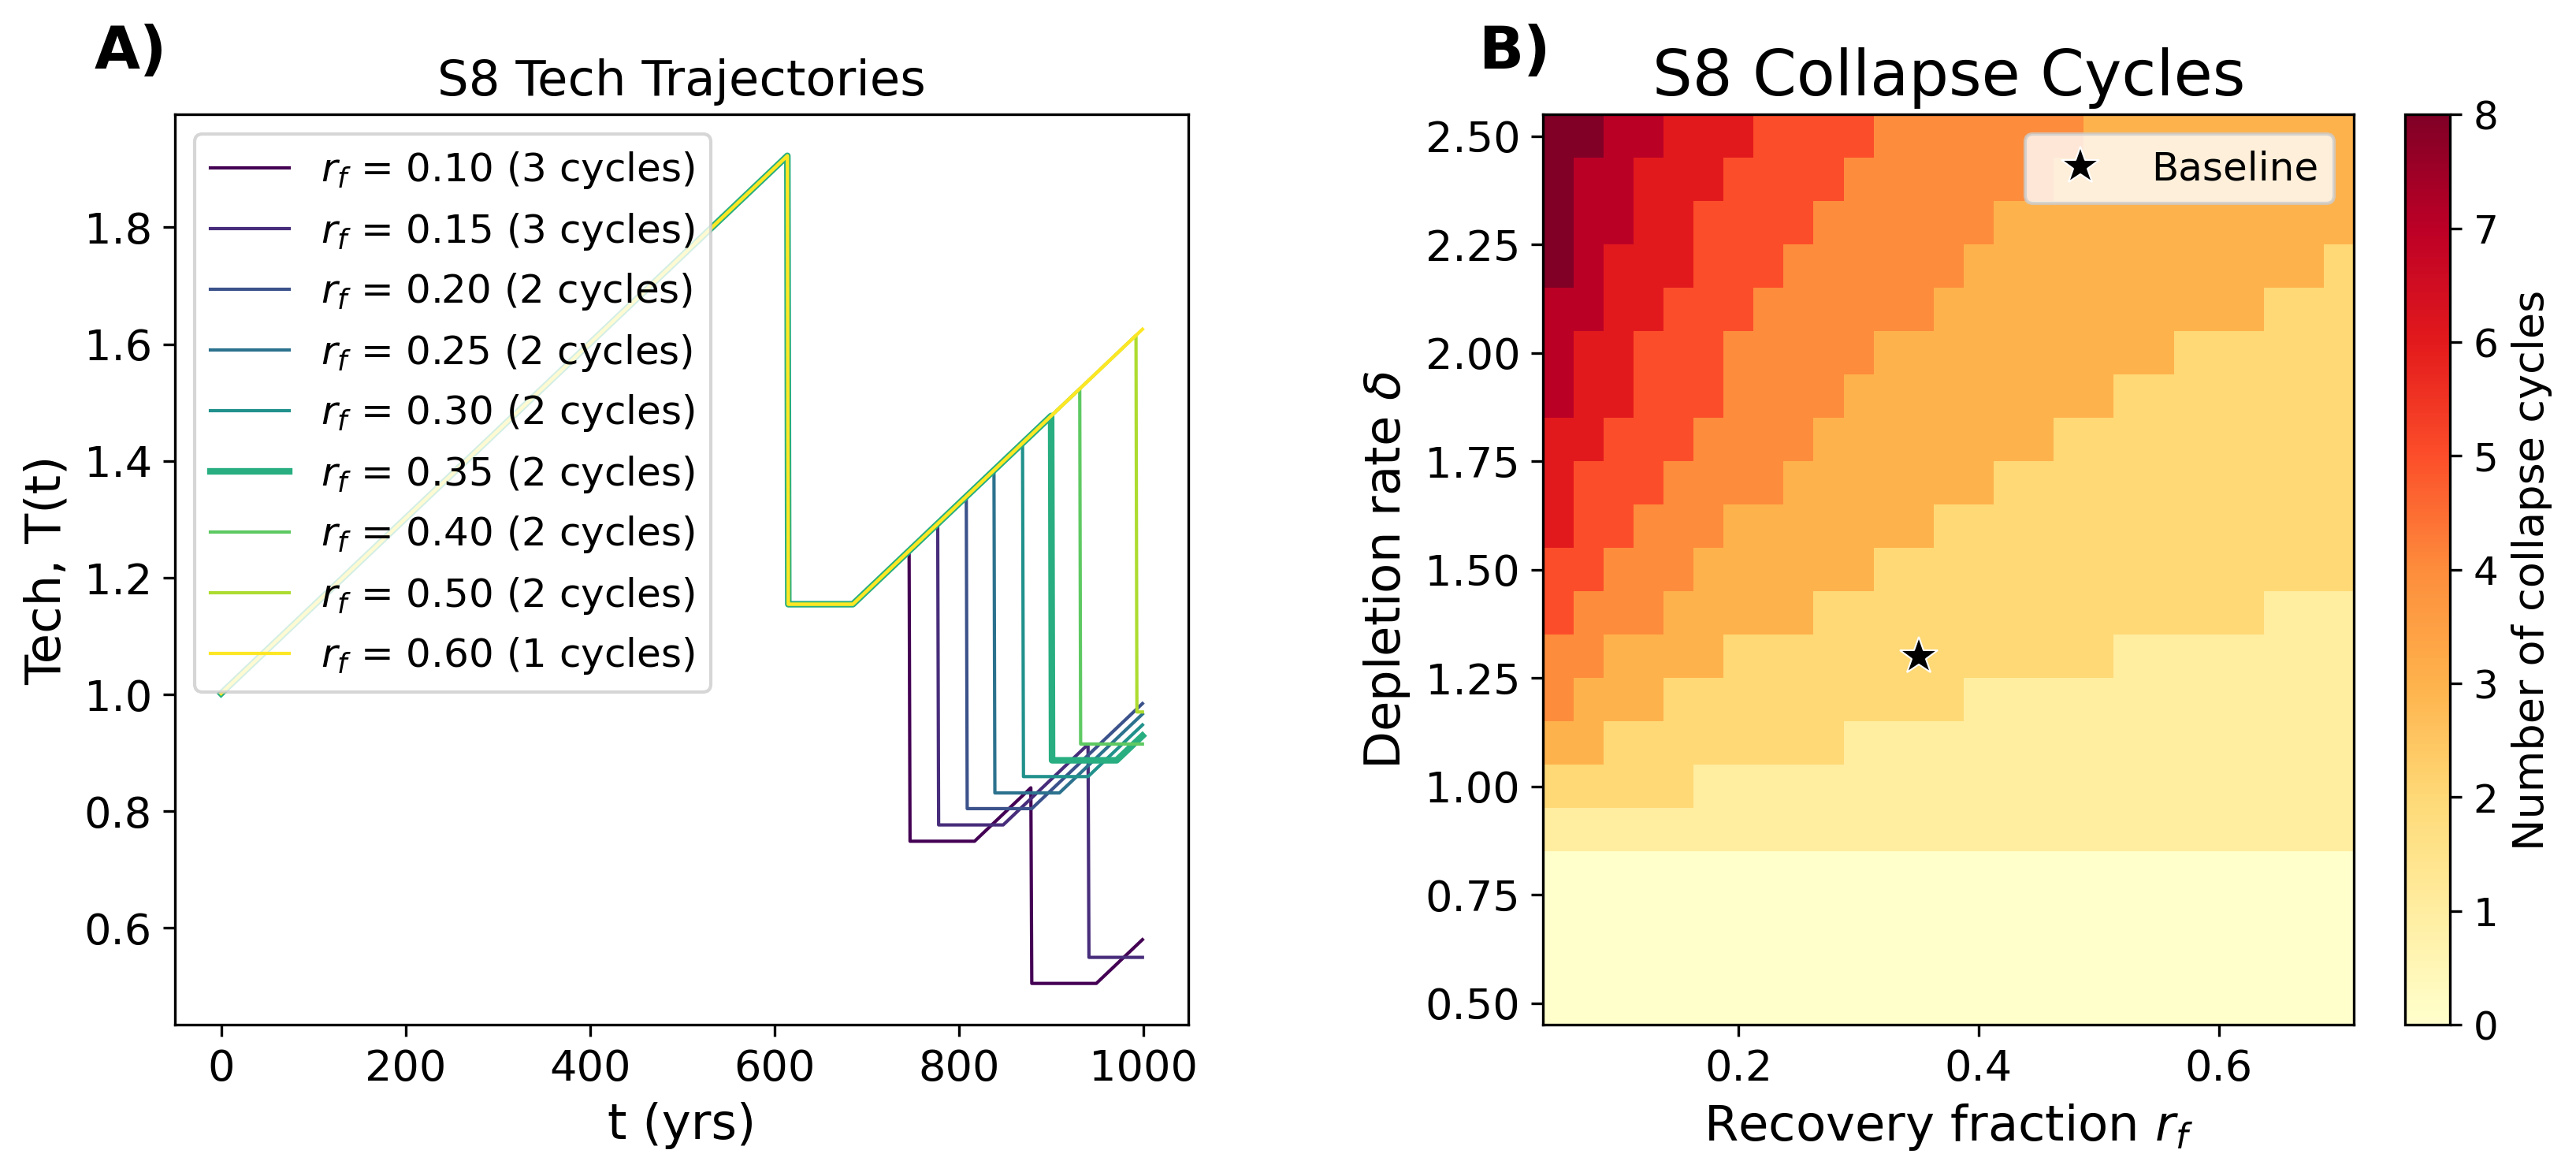
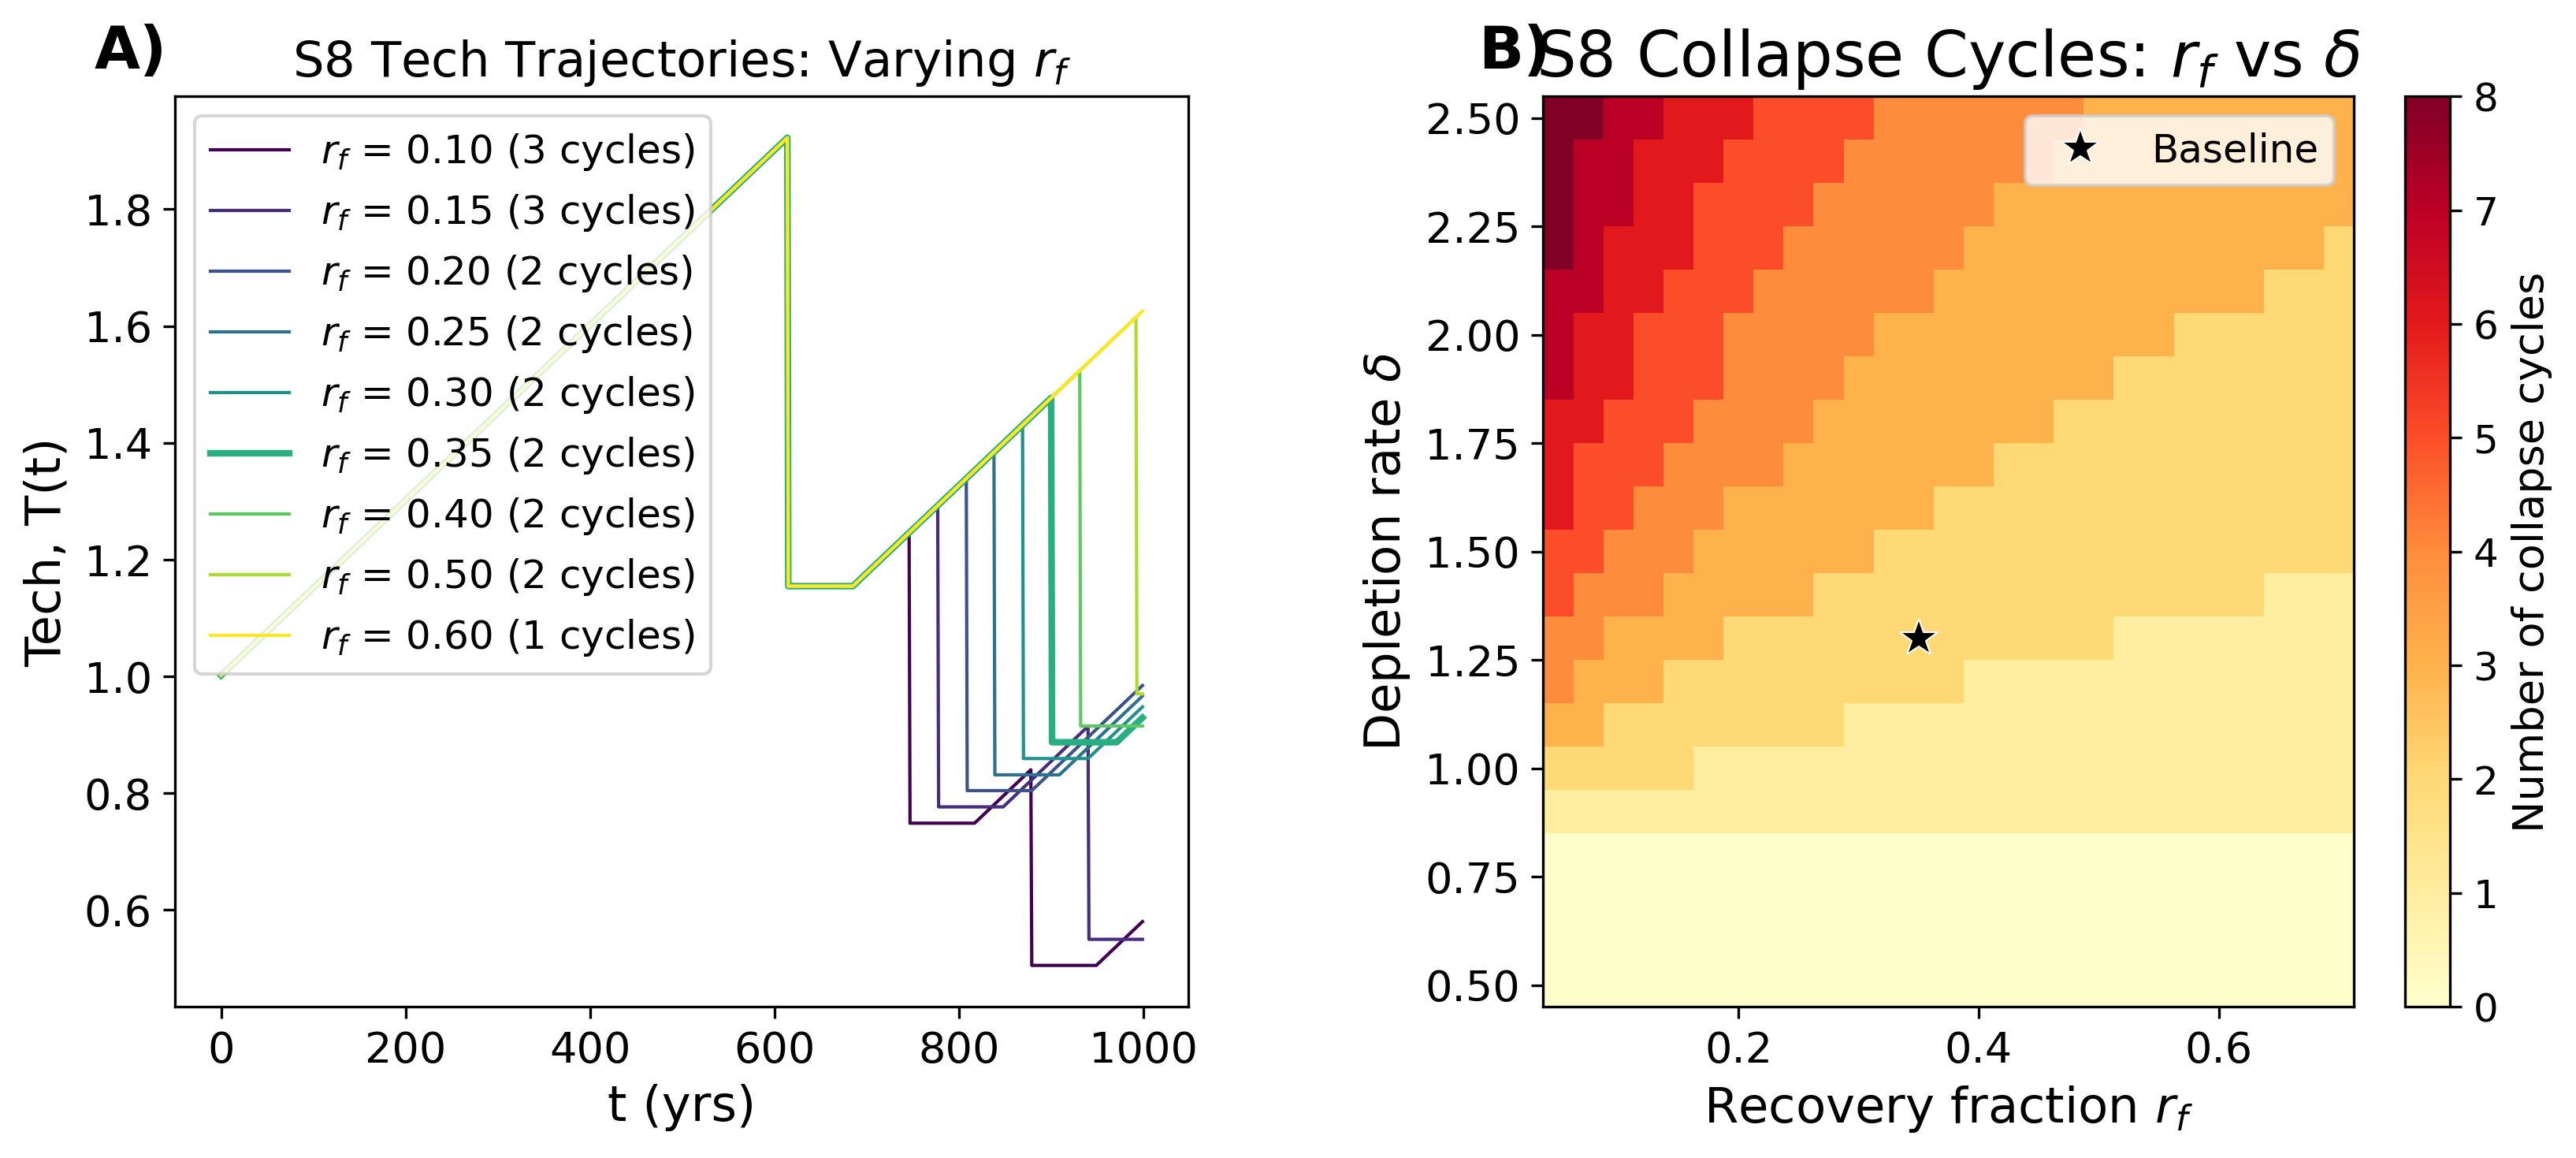
fix typo

diff --git a/tex/preamble.tex b/tex/preamble.tex
@@ -25,7 +25,7 @@
 \setlength{\parskip}{0.5em}
 \setlength{\parindent}{1.5em}
 
-\title{\textcolor{red}{Projections of Earth's Technosphere: \\ Civilization Collapse--Recovery Dynamics and Detectability}}
+\title{\textcolor{red}{Projections of Earth's Technosphere:} \\ \textcolor{red}{Civilization Collapse--Recovery Dynamics and Detectability}}
 \author{\begin{tabular}[t]{c}Celia Blanco$^{1,2}$, Jacob Haqq-Misra$^{2}$, George Profitiliotis$^{2}$\\[0.5em]
 \small{1. Centro de Astrobiolog\'{i}a (CSIC-INTA),}\\
 \small{Ctra de Torrej\'{o}n a Ajalvir, km 4, 28850 Torrej\'{o}n de Ardoz, Madrid, Spain}\\[0.3em]